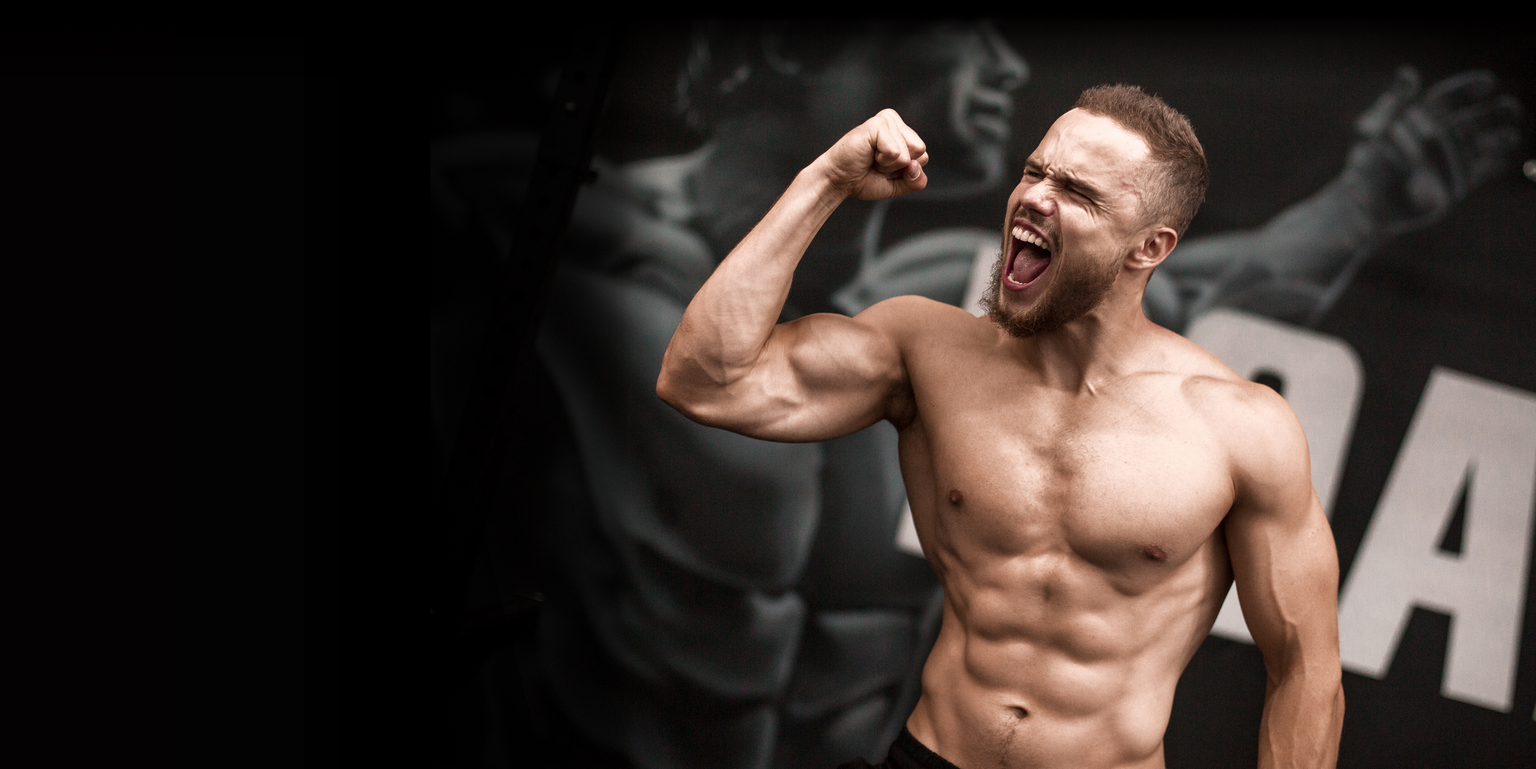
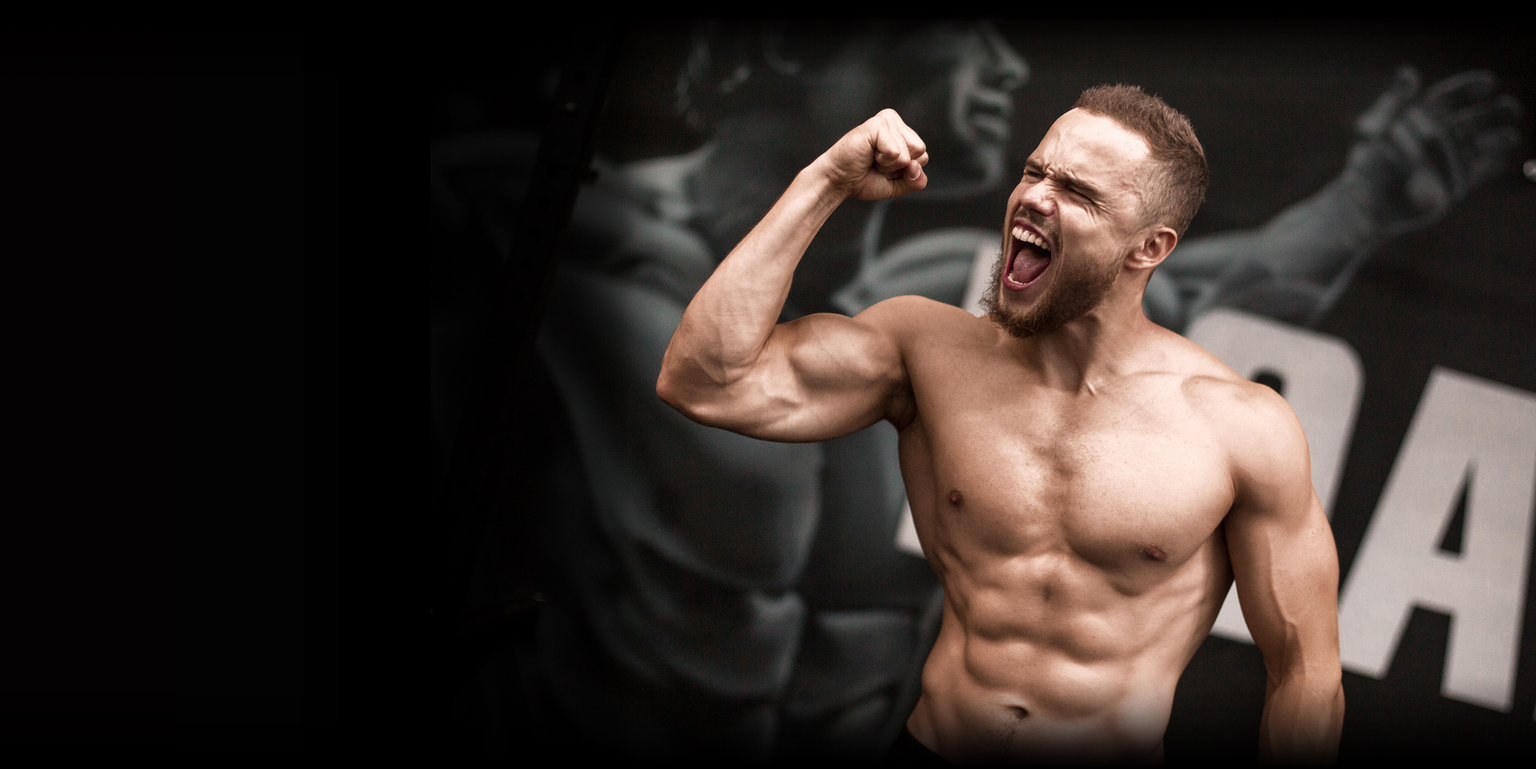
Fixes pt 1 from client

Changed region(s): [[0.4642, 0.875, 0.9284, 1.0], [0.9593, 0.875, 0.9903, 0.9375], [0.4023, 0.9688, 0.4332, 1.0]]

diff --git a/Client/components/MainPage/index.js b/Client/components/MainPage/index.js
@@ -137,16 +137,27 @@ export default class MainPage extends Component {
             <div className="col col-md-6 col-lg-6 col-12">
               <h4 className="task-name">Забери свой приз</h4>
               <p>
-                Чемпионат: (квалификация на Битву) <br />1 место: 50 000 рублей{' '}
-                <br />2 место: 30 000 рублей <br />3 место: 20 000 рублей <br />
-                4 место: 10 000 рублей <br />5 место: 10 000 рублей <br />6
-                место: 10 000 рублей <br />
+                Чемпионат: (квалификация на Битву) <br />
+                <span className="accented">1</span> место:{' '}
+                <span className="accented">50 000</span> рублей <br />
+                <span className="accented">2</span> место:{' '}
+                <span className="accented">30 000</span> рублей <br />
+                <span className="accented">3</span> место:{' '}
+                <span className="accented">20 000</span> рублей <br />
+                <span className="accented">4</span> место:{' '}
+                <span className="accented">10 000</span> рублей <br />
+                <span className="accented">5</span> место:{' '}
+                <span className="accented">10 000</span> рублей <br />
+                <span className="accented">6</span> место:{' '}
+                <span className="accented">10 000</span> рублей <br />
               </p>
 
               <p>
                 Битва: <br />
-                Победитель Пары: 100 000 рублей + контракт атлета Road to the
-                Dream
+                <span className="accented">
+                  Победитель Пары: 100 000 рублей + контракт атлета Road to the
+                  Dream{' '}
+                </span>
               </p>
             </div>
             <div className="d-none d-md-flex col col-md-6 offset-lg-1 col-lg-4 col-12 image-wrapper">

diff --git a/Client/styles/_main-page.scss b/Client/styles/_main-page.scss
@@ -80,8 +80,8 @@
       width: 100vw;
       height: 100vh;
       background: url('../assets/Picture@2x.jpg');
-      background-position: right bottom;
-      background-size: cover;
+      background-position: right center;
+      background-size: contain;
       background-repeat: no-repeat;
     }
     .button {
@@ -192,6 +192,7 @@
       flex-direction: column;
       margin-top: 100px;
       align-items: center;
+      font-family: 'Oswald', sans-serif;
       .paragraph {
         margin: auto;
         border-left: 3px solid #cd2119;
@@ -263,6 +264,7 @@
         font-size: 36px;
         line-height: 44px;
         padding-bottom: 20px;
+        text-transform: uppercase;
       }
       p {
         font-size: 18px;
@@ -270,6 +272,10 @@
         font-weight: 100;
         a {
           color: #cd2119;
+        }
+        .accented {
+          font-weight: bold;
+          font-size: 22px;
         }
       }
       .image-wrapper {
@@ -425,6 +431,7 @@
       // top: 40vh !important;
       height: 80vh !important;
       background-size: 100vh !important;
+      background-position: 78% bottom !important;
     }
     .col {
       margin-top: 50px;
